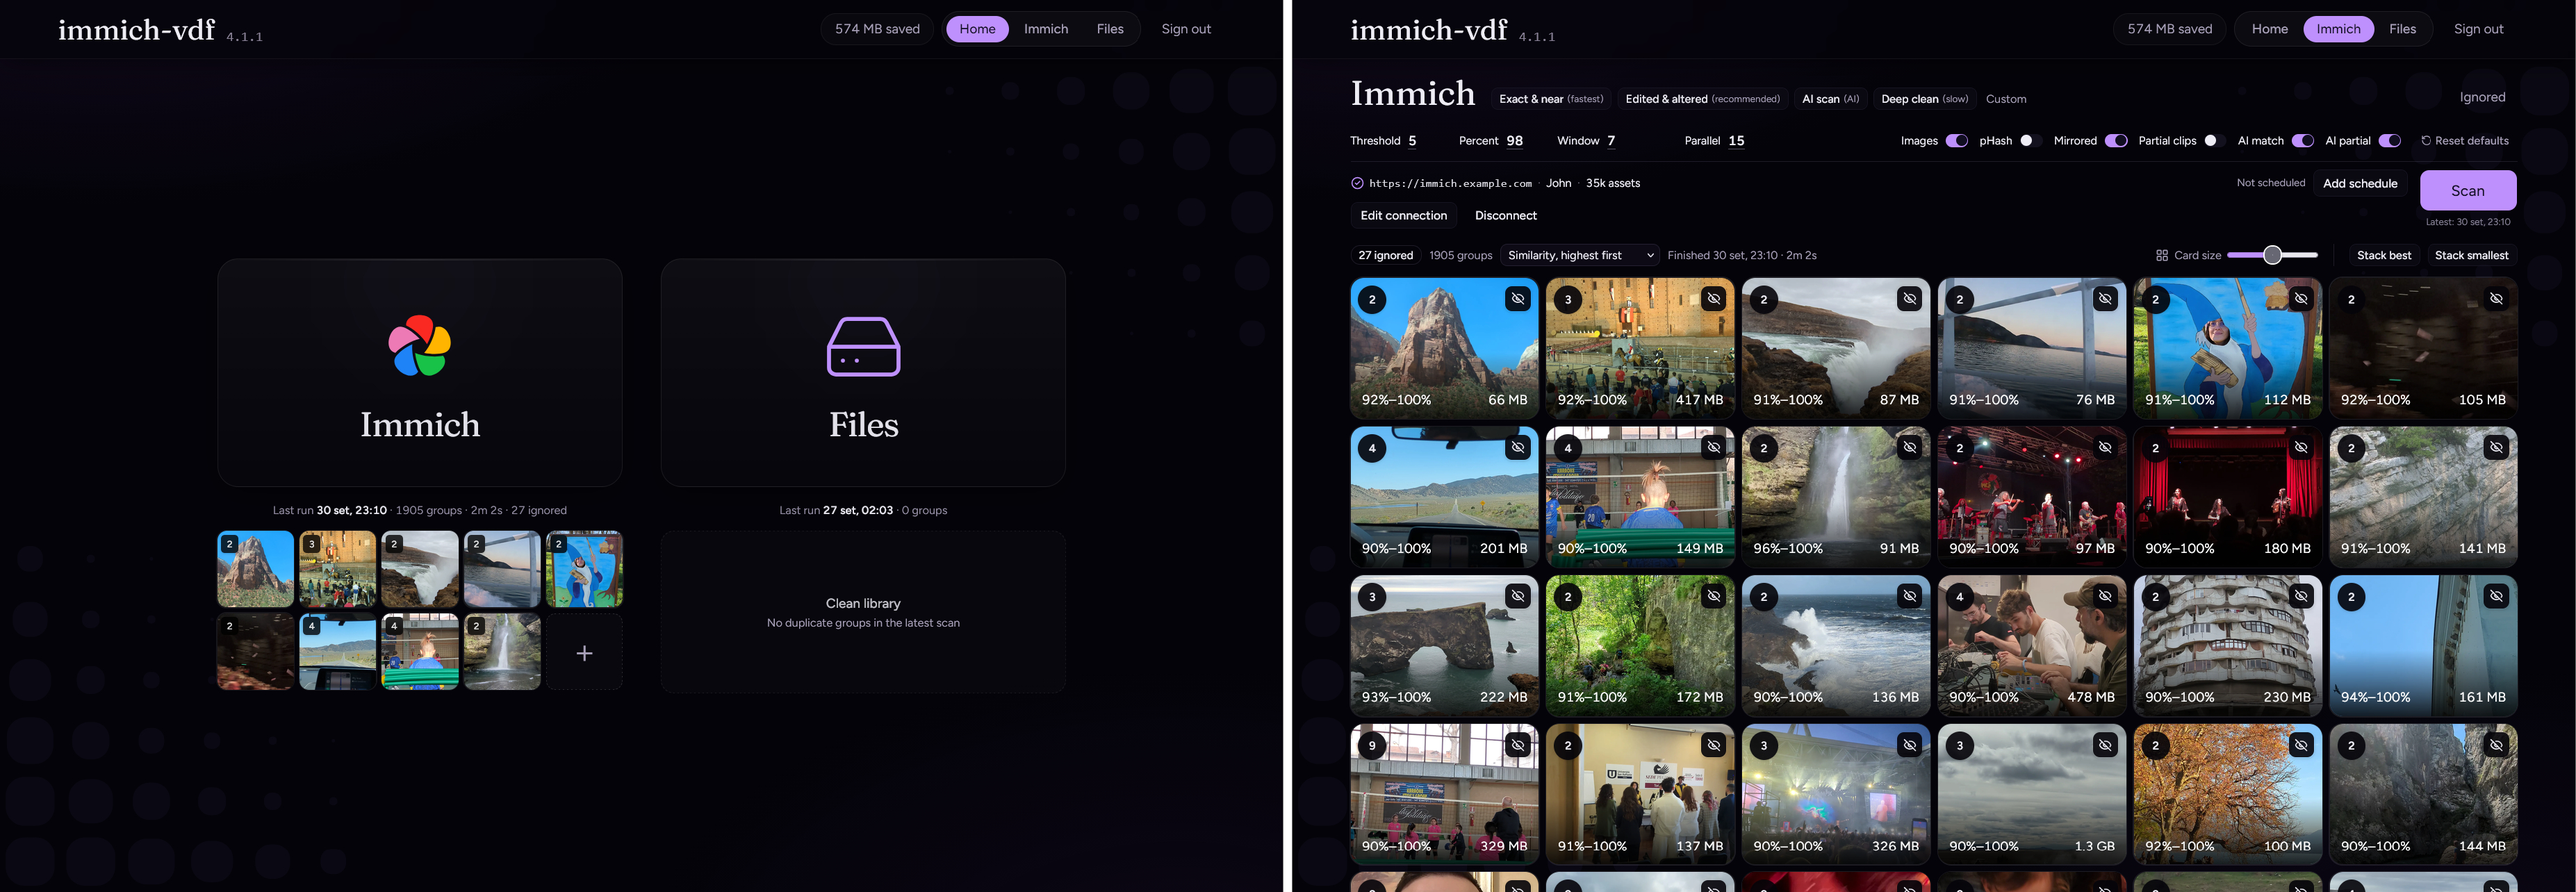
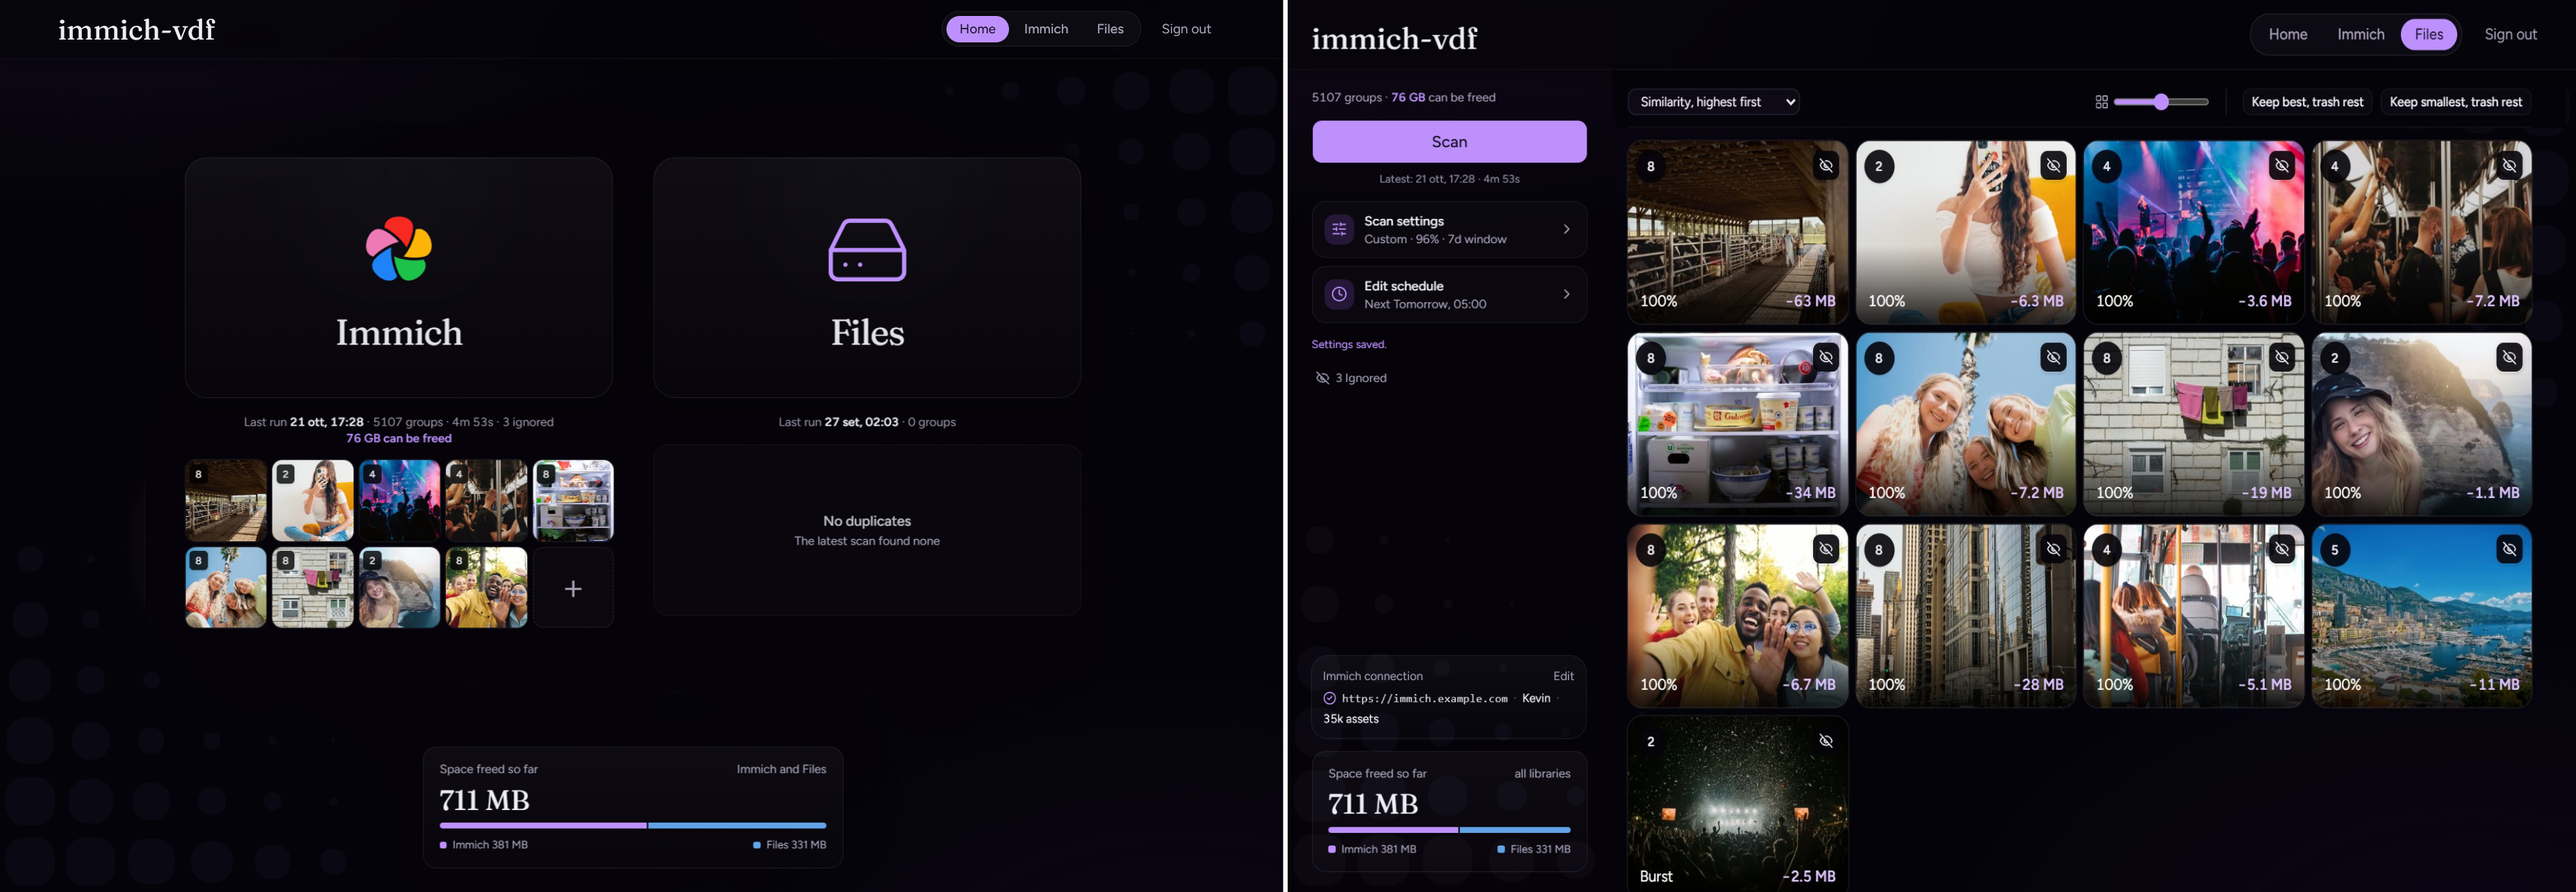
Update the docs and screenshots for the new scan, schedule and undo UI.
Describe the five scan settings steps, the schedule sheet's Frequency,
Settings and Webhook steps, the Keep buttons, Undo and the Home cards.
Replace the screenshots with current captures.

diff --git a/docs/scan.md b/docs/scan.md
@@ -14,17 +14,17 @@ nav_next_title: Schedule and webhook
 ## On this page
 
 - [Pick a starting point](#pick-a-starting-point)
-- [Settings worth leaving alone](#settings-worth-leaving-alone)
+- [Settings by step](#settings-by-step)
 
 Open **Immich** or **Files**, choose your settings under **Scan settings**, and select **Scan**. Only one scan runs at a time, across both pages.
 
-![Scan settings and the Scan button](images/scan.jpg)
+![The Scan settings sheet, with the starting points at the top](images/scan.jpg)
 
 Repeat scans are much faster. If no files and no settings have changed, the scan finishes right away and keeps your last results. When only some files changed, only those are checked again. The first scan after an update can take longer.
 
 ## Pick a starting point
 
-Under **Scan settings**, the first step sets a starting point. You can fine-tune everything after that.
+Under **Scan settings**, the first step sets a starting point. You can fine-tune everything after that. Once you change a setting by hand, the starting point shows **Custom**.
 
 | Starting point | Use it when | Cost |
 | --- | --- | --- |
@@ -36,20 +36,26 @@ Under **Scan settings**, the first step sets a starting point. You can fine-tune
 
 > Start with **Recommended**. Move to **Edited & altered** or **AI scan** if edits are still missing. Use **Deep clean** only if you need clips inside longer videos.
 
-## Settings worth leaving alone
+## Settings by step
 
-| Setting | Suggestion |
-| --- | --- |
-| Hash tolerance | Leave at 5. Lower is stricter and can miss real duplicates. |
-| Similarity | Let the starting point set it. A much lower value fills your results with weak matches. |
-| Time window | Immich starts at 7 days, so photos from the same event are compared. Files starts at 0, which compares your whole library. Raise it only if the same photo was imported months apart. Dates come from Immich first, including dates you edited there, then from the file itself. |
-| Bursts | Also groups photos taken within this many seconds of each other that share a file-name prefix, even if they don't look alike. Starts at 5. Set 0 to turn it off. |
-| Parallel jobs | Use the suggested number. |
-| Images | Leave on unless you only care about video. |
-| pHash | Leave off unless you know you want it. |
+**Scan settings** has five steps. Each one shows a summary, so you can check it without opening it.
 
-**Reset defaults** restores the built-in settings. Pick a starting point again afterwards.
+| Step | Setting | Suggestion |
+| --- | --- | --- |
+| 2. How strict | Similarity | Let the starting point set it. A much lower value fills your results with weak matches. |
+| 2. How strict | Hash tolerance | Leave at 5. Lower is stricter and can miss real duplicates. |
+| 3. What to look for | Images | Photos as well as video. Leave on unless you only care about video. |
+| 3. What to look for | Mirrored | Also matches flipped copies. About 2× slower. |
+| 3. What to look for | AI match | Finds crops and re-edits. The first use downloads about 100 MB, once. |
+| 3. What to look for | AI partial | Finds clips inside longer videos, matching on the picture. |
+| 3. What to look for | Partial clips | Also matches clips by their sound. Slow. |
+| 4. Grouping by time | Time window | Immich starts at 7 days, so photos from the same event are compared. Files starts at 0, which compares your whole library. Raise it only if the same photo was imported months apart. Dates come from Immich first, including dates you edited there, then from the file itself. |
+| 4. Grouping by time | Bursts | Also groups photos taken within this many seconds of each other that share a file-name prefix, even if they don't look alike. Starts at 5. Set 0 to turn it off. |
+| 5. Advanced | Parallel jobs | Use the suggested number. |
+| 5. Advanced | pHash | An alternative method. Leave off unless you know you want it. |
 
-On the Files page, add at least one folder. Exclude any folder you never want compared.
+**Reset defaults** restores the built-in settings. Pick a starting point again afterwards. **Save** keeps your changes. **Save and scan** saves them and starts a scan.
+
+In **Folders** on the Files page, add at least one Include folder. Exclude any folder you never want compared.
 
 A schedule has its own settings, separate from the ones on the page. See [Schedule and webhook](schedule).

diff --git a/docs/schedule.md b/docs/schedule.md
@@ -15,13 +15,17 @@ nav_next_title: Review
 - [Missed runs](#missed-runs)
 - [Webhook](#webhook)
 
-**Add schedule** sets up a daily or weekly scan for that page. A schedule has its own matching settings, separate from the ones on the page.
+**Add schedule** sets up a daily or weekly scan for that page. The schedule sheet has three steps:
+
+1. **Frequency**: Off, Daily or Weekly, with the time and time zone.
+2. **Settings**: the schedule's own matching settings, separate from the ones on the page.
+3. **Webhook**: optional. See [Webhook](#webhook).
 
 Scheduled scans never stack, trash or delete anything. They only find duplicates for you to review.
 
-![Schedule dialog with the webhook](images/schedule.jpg)
+![The schedule sheet, with the Webhook step open](images/schedule.jpg)
 
-Times use the time zone you pick, not the server's. To stop the scans, delete the schedule. That also removes the webhook. Your scan settings stay as they are.
+Times use the time zone you pick, not the server's. To stop the scans, set **Frequency** to **Off** and confirm. That deletes the schedule and also removes the webhook. Your scan settings stay as they are.
 
 ## Missed runs
 
@@ -31,7 +35,7 @@ A scan is tried at most three times. If it still hasn't run after three tries or
 
 ## Webhook
 
-The webhook is a single URL for the whole app. It's called when a **scheduled** scan finishes, and also when one is skipped. Scans you start yourself don't call it.
+The webhook is a single URL for the whole app, set in the **Webhook** step of the schedule sheet. It's called when a **scheduled** scan finishes, and also when one is skipped. Scans you start yourself don't call it.
 
 **Send test** posts a sample message and waits up to 10 seconds for a reply. The URL must start with `http` or `https`. Loopback, link-local and cloud-metadata addresses are refused, but LAN addresses work.
 

diff --git a/docs/review.md b/docs/review.md
@@ -14,7 +14,9 @@ nav_next_title: Photos
 ## On this page
 
 - [Keys](#keys)
+- [Keep one file](#keep-one-file)
 - [After an action](#after-an-action)
+- [Undo](#undo)
 
 Open a group from the results. [Photos](photos) covers zoom and difference. [Groups](groups) covers merging and extracting.
 
@@ -38,3 +40,15 @@ These don't work while you're typing in a field. When the video slider is focuse
 | Closed the group | The results. Nothing changes. |
 
 Videos play in your browser. If the browser can't play a file directly, it's converted as it plays. Videos in a group play side by side and stay in sync. Photos show one at a time.
+
+## Keep one file
+
+In a group, **Keep best** keeps the best file and trashes the rest. **Keep smallest** does the same with the smallest file. On Immich the button reads **Keep best, trash rest**. **Keep selected** trashes every file you didn't select.
+
+On the results, **Keep best, trash rest** and **Keep smallest, trash rest** do this for every group at once. A confirmation asks first. On Files, the trashed copies can be restored from **Trash**.
+
+## Undo
+
+Ignoring a group, or moving files to the Files trash, shows a notice at the bottom of the screen with an **Undo** link. The link works for 10 minutes, and only until a newer scan replaces the results.
+
+To bring back a file trashed in Immich, restore it from Immich's trash.

diff --git a/docs/usage.md b/docs/usage.md
@@ -14,7 +14,7 @@ nav_next_title: Two libraries
 
 - [Pages](#pages)
 
-Sign in with your `APP_PASSWORD`. Home shows the latest duplicate groups from Immich and from Files.
+Sign in with your `APP_PASSWORD`. Home has a card for each page. The card shows when the last scan finished, how many groups it found, how long it took, and how much space you can free. Below the cards, **Space freed so far** adds up the space that trashed duplicates has freed, split between Immich and Files.
 
 The two pages are independent, each with its own results.
 

diff --git a/docs/index.md b/docs/index.md
@@ -11,7 +11,7 @@ Find duplicate photos and videos, compare them side by side, and clear the ones 
 
 Use **Immich** for your Immich library. Use **Files** for an external library that Immich also reads.
 
-![Duplicate groups in an Immich library](images/app.jpg)
+![Duplicate groups in a library, on the Files page](images/app.jpg)
 
 > DISCLAIMER: This whole app is vibe coded. Run it on your own network or behind a reverse proxy, and don't expose it directly to the internet.
 

diff --git a/docs/groups.md b/docs/groups.md
@@ -30,4 +30,4 @@ If only one file would be left behind, it's removed from the results, because a 
 
 ## Ignore
 
-**Ignore group** hides a group from later scans. The files stay where they are. You can bring a group back from **Ignored**.
+**Ignore group** hides a group from later scans. The files stay where they are. You can bring a group back from **Ignored**. A group also comes back on its own if a later scan finds a new matching file.

diff --git a/docs/files.md b/docs/files.md
@@ -26,5 +26,3 @@ Immich keeps showing the photo until it rescans that library.
 ## Ignore
 
 Ignoring a group keeps it out of later scans. The files stay where they are, and you can restore the group from **Ignored**.
-
-In a group, **Keep best, trash rest** and **Keep smallest, trash rest** trash everything else. **Keep selected** trashes every file you didn't select.
